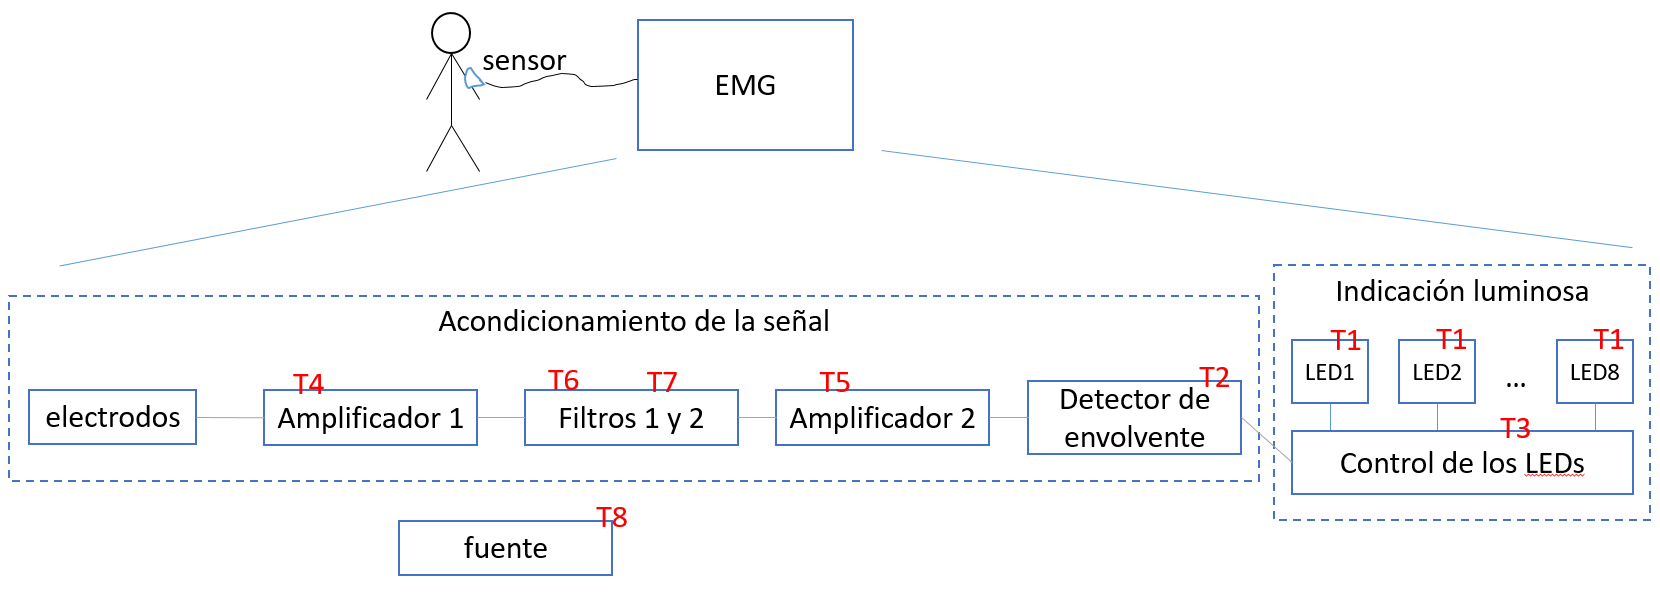
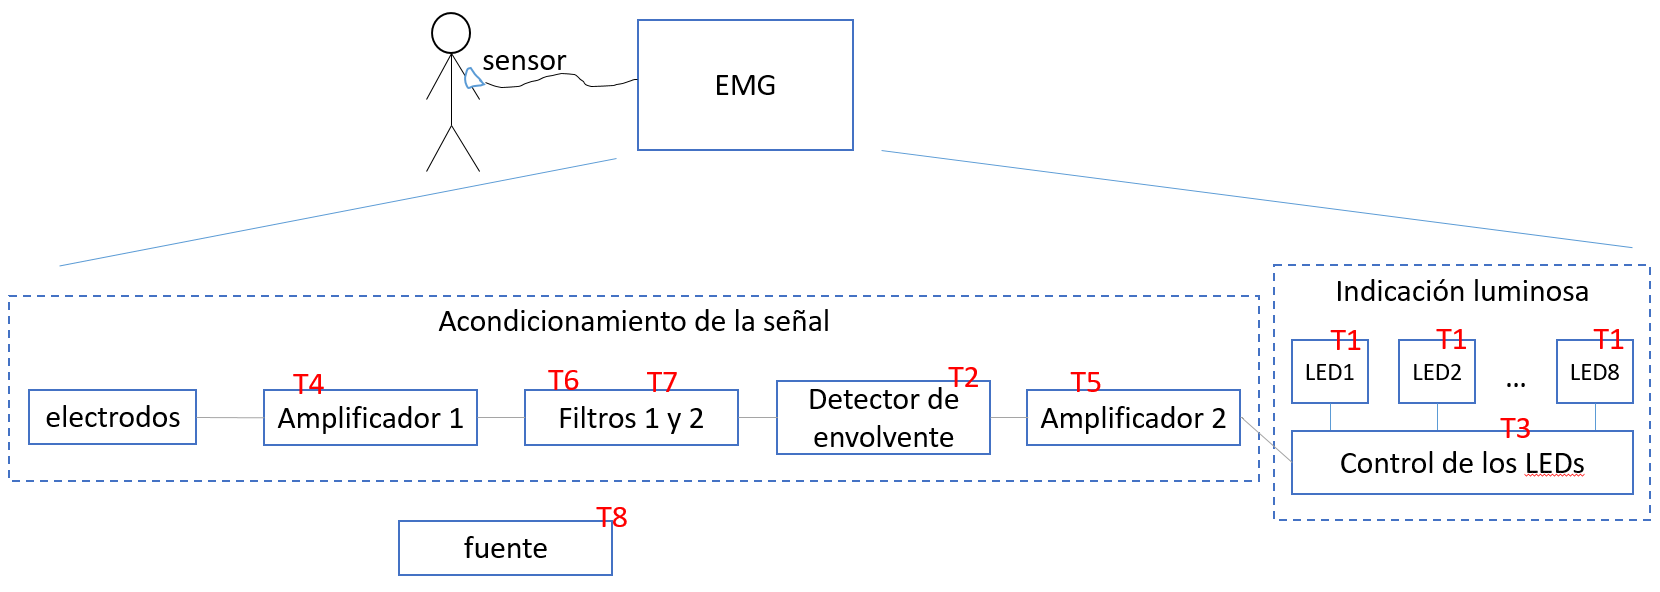
add T5

Changed region(s): [[0.4608, 0.6081, 0.7681, 0.7905]]

diff --git a/teoria/T5.md b/teoria/T5.md
@@ -1,0 +1,51 @@
+# <img src="https://julianodb.github.io/SISTEMAS_ELECTRONICOS_PARA_INGENIERIA_BIOMEDICA/img/logo_fing.png?raw=true" align="right" height="45"> Trabajo 5 de Sistemas Electrónicos
+
+#### Segundo Semestre de 2023
+
+## Introducción
+
+En el contexto del diseño de un Electromiógrafo portátil, las tareas han sido divididas en los siguientes bloques:
+
+![TX_bloques](../img/TX_bloques.png)
+
+Figura 1: División del proyecto del EMG en bloques
+
+Con el circuito del trabajo 4 se puede obtener una señal del EMG. Si dicha señal pasa por el detector de envolvente, se obtiene un voltaje que es proporcional a la amplitud del EMG. Sin embargo, dicho voltaje está entre 0 y 5 V, mientras que el circuito de control de los LEDs está diseñado para un voltaje de entrada entre -5 V y 5 V. Por ejemplo, si se conecta la salida del detector de envolvente al circuito de los LEDs, incluso cuando no hay señal de EMG (la salida del detector de envolvente es 0 V), 4 o 5 LEDs estarán encendidos !
+
+En el quinto trabajo, a su grupo le ha sido asignada la tarea de diseñar el circuito del Amplificador 2. El principal objetivo es restar ~ 5 V de la señal de salida del detector de envolvente, de tal forma que cuando no hay EMG la salida sea ~ -5 V y todos los LEDs estén apagados. Adicionalmente, el amplificador 2 también amplificará el voltaje resultante por un valor ajustable a través de un potenciometro.
+
+El trabajo debe ser un ensayo que contiene la información especificada en la siguiente sección.
+
+## Amplificador 2
+
+Considerando que la salida del detector de envolvente es el voltaje $v_i$, y la entrada del circuito de control de los LEDs es el voltaje $v_o$, se requiere diseñar un circuito que implemente la siguiente relación:
+
+$$ v_o = -\frac{R_1}{R_2} v_o -\frac{R_1}{R_3}5$$
+
+Donde $R_1$, $R_2$ y $R_3$ son 3 resistencias que permiten ajustar la resta y la amplificación. En particular, si $R_3 = R_1$, el circuito implementa la siguiente ecuación:
+
+$$ v_o = -\frac{R_1}{R_2} v_o - 5$$
+
+
+1. Diseñen el circuito que implementa la relación mencionada utilizando apenas los siguientes elementos:
+
+<img src="https://julianodb.github.io/electronic_circuits_diagrams/T5_materials.png" width="300">
+
+Figura 2: Elementos disponibles para implementar el circuito del Amplificador 2
+
+2. Potenciometros para que rango ....
+
+Plazo de entrega: 23:59, Jueves, 9 de Noviembre de 2023
+
+## Anexos
+
+Valores de Resistencias disponibles:
+
+|   |  |        |       |  |
+|------|------|-----------|------------|-------|
+| 10Ω  | 220Ω | 1kΩ       | 6.8kΩ      | 100kΩ |
+| 22Ω  | 270Ω | 2kΩ       | 10kΩ       | 220kΩ |
+| 47Ω  | 330Ω | 2.2kΩ     | 20kΩ       | 300kΩ |
+| 100Ω | 470Ω | 3.3kΩ     | 47kΩ       | 470kΩ |
+| 150Ω | 510Ω | 4.7kΩ     | 51kΩ       | 680kΩ |
+| 200Ω | 680Ω | 5.1kΩ     | 68kΩ       | 1M    |
